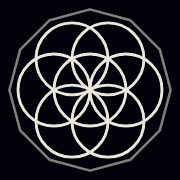
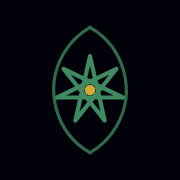
publish cosmo weather bb48fe33f5d1c21bbca833845268bdce2a1f89e8

Changed region(s): [[0.0278, 0.0278, 0.9722, 0.9722]]

diff --git a/index.html b/index.html
@@ -4,15 +4,15 @@
 <meta charset="utf-8">
 <meta name="viewport" content="width=device-width, initial-scale=1, viewport-fit=cover">
 <meta name="theme-color" content="#02030a">
-<meta name="description" content="A cosmic clock: the sky of the present moment drawn as a geometric figure.">
+<meta name="description" content="Siderarium: macrocosmic clock visually tracking the astrological energy of the moment.">
 <meta name="mobile-web-app-capable" content="yes">
 <meta name="apple-mobile-web-app-capable" content="yes">
 <meta name="apple-mobile-web-app-status-bar-style" content="black-translucent">
-<meta name="apple-mobile-web-app-title" content="Cosmo">
+<meta name="apple-mobile-web-app-title" content="Siderarium">
 <link rel="manifest" href="manifest.webmanifest">
 <link rel="icon" href="icons/icon-192.png">
 <link rel="apple-touch-icon" href="icons/apple-touch-icon.png">
-<title>cosmo weather</title>
+<title>siderarium</title>
 <link rel="preconnect" href="https://fonts.googleapis.com">
 <link rel="preconnect" href="https://fonts.gstatic.com" crossorigin>
 <link href="https://fonts.googleapis.com/css2?family=Geist:wght@400;500&family=Geist+Mono:wght@400&display=swap" rel="stylesheet">
@@ -20,7 +20,7 @@
 </head>
 <body>
   <header class="bar top">
-    <span class="mark">cosmo weather</span>
+    <span class="brand"><span class="mark">siderarium</span><span class="tag" data-i18n="ui.tagline">the macrocosmic clock</span></span>
     <nav class="seg" aria-label="view">
       <button data-mode="clock" data-i18n="ui.clock">clock</button>
       <button data-mode="chart" data-i18n="ui.chart">chart</button>
@@ -101,11 +101,11 @@
     </article>
   </section>
 
-  <section id="about" class="panel" hidden aria-label="about cosmo weather">
+  <section id="about" class="panel" hidden aria-label="about siderarium">
     <div class="close-row"><button id="about-close" aria-label="close" data-i18n="ui.close">close</button></div>
     <article data-about="en">
-      <h1>Cosmo Weather: a cosmic clock of the present moment</h1>
-            <p class="meta">working paper · v0.7 · october 2026</p>
+      <h1>Siderarium: a macrocosmic clock of the present moment</h1>
+            <p class="meta">macrocosmic clock visually tracking the astrological energy of the moment · working paper · v0.8 · october 2026</p>
             <p class="abstract">A clock that draws the sky of the present moment as a geometric figure. Planetary positions are computed from an ephemeris. A fixed set of rules turns them into colour, number, geometry and sound. Every mark on the dial can be traced to a rule and a source. The core is one tradition, the Renaissance; two modern layers are added and declared. Rules invented for this instrument are marked <code>[CW]</code>.</p>
 
             <h2>1 · CONCEPT</h2>
@@ -273,8 +273,8 @@
             </ol>
     </article>
     <article data-about="es" hidden>
-      <h1>Cosmo Weather: un reloj cósmico del momento presente</h1>
-            <p class="meta">documento de trabajo · v0.7 · octubre 2026</p>
+      <h1>Siderarium: un reloj macrocósmico del momento presente</h1>
+            <p class="meta">reloj macrocósmico que sigue visualmente la energía astrológica del momento · documento de trabajo · v0.8 · octubre 2026</p>
             <p class="abstract">Un reloj que dibuja el cielo del momento presente como una figura geométrica. Las posiciones planetarias se calculan con una efemérides. Un conjunto fijo de reglas las convierte en color, número, geometría y sonido. Cada marca de la esfera se puede rastrear hasta una regla y una fuente. El núcleo es una sola tradición, la del Renacimiento; se añaden dos capas modernas, declaradas. Las reglas inventadas para este instrumento se marcan <code>[CW]</code>.</p>
 
             <h2>1 · CONCEPTO</h2>

diff --git a/js/i18n.js b/js/i18n.js
@@ -1,4 +1,4 @@
-/*  cosmo weather — language
+/*  siderarium — language
     English and Spanish. Lowercase throughout, as the frame is. Names of angels, mansions, chords and
     the wordmark stay as they are. The Book T titles are translated plainly; the originals are in the about page.
 */
@@ -37,7 +37,7 @@
       },
       ui: {
         clock: 'clock', chart: 'chart', natal: 'natal', synastry: 'transits', sigil: 'sigil', listen: 'listen', listening: 'listening', readout: 'readout', screen: 'screen', about: 'about',
-        menu: 'menu', view: 'view', settings: 'settings', houses: 'houses', housesOpt: { regiomontanus: 'regiomontanus', equal: 'equal', placidus: 'placidus' },
+        tagline: 'the macrocosmic clock', menu: 'menu', view: 'view', settings: 'settings', houses: 'houses', housesOpt: { regiomontanus: 'regiomontanus', equal: 'equal', placidus: 'placidus' },
         field: 'field', fieldOpt: { engraved: 'engraved', glow: 'glow' }, bodiesLabel: 'planets', bodiesOpt: { metal: 'bodies', lights: 'lights' }, language: 'language',
         nativity: 'nativity', noneSet: 'none set', edit: 'edit', seenFrom: 'seen from', birthplace: 'birthplace', currentPlace: 'current place',
         charts: 'saved charts', saveAs: 'save as', rename: 'rename', del: 'delete', confirm: 'confirm', load: 'load', name: 'name', namePrompt: 'a name for this chart', ok: 'ok', noCharts: 'no saved charts yet',
@@ -88,7 +88,7 @@
       },
       ui: {
         clock: 'reloj', chart: 'carta', natal: 'natal', synastry: 'tránsitos', sigil: 'sigilo', listen: 'escuchar', listening: 'escuchando', readout: 'lectura', screen: 'pantalla', about: 'acerca',
-        menu: 'menú', view: 'vista', settings: 'ajustes', houses: 'casas', housesOpt: { regiomontanus: 'regiomontanus', equal: 'iguales', placidus: 'placidus' },
+        tagline: 'el reloj macrocósmico', menu: 'menú', view: 'vista', settings: 'ajustes', houses: 'casas', housesOpt: { regiomontanus: 'regiomontanus', equal: 'iguales', placidus: 'placidus' },
         field: 'campo', fieldOpt: { engraved: 'grabado', glow: 'luz' }, bodiesLabel: 'planetas', bodiesOpt: { metal: 'cuerpos', lights: 'luces' }, language: 'idioma',
         nativity: 'natividad', noneSet: 'sin definir', edit: 'editar', seenFrom: 'vista desde', birthplace: 'lugar de nacimiento', currentPlace: 'lugar actual',
         charts: 'cartas guardadas', saveAs: 'guardar como', rename: 'renombrar', del: 'borrar', confirm: 'confirmar', load: 'cargar', name: 'nombre', namePrompt: 'un nombre para esta carta', ok: 'ok', noCharts: 'aún no hay cartas guardadas',

diff --git a/js/app.js b/js/app.js
@@ -1,4 +1,4 @@
-/*  cosmo weather — app shell
+/*  siderarium — app shell
     Live clock, time scrubber, places, modes, export.
 */
 (function (CW) {
@@ -291,7 +291,7 @@
     const st = viewState(), cv = document.createElement('canvas');
     cv.width = cv.height = px;
     CW.render.render(cv.getContext('2d'), st, px, (performance.now() - t0) / 1000, { mode: S.mode === 'chart' || S.mode === 'natalchart' ? 'chart' : 'clock', fieldRes: px >= 3000 ? 420 : 300, field: S.field, sigil: S.sigil, engrave: S.engrave, luminous: S.luminous });
-    download(cv, `cosmo-weather_${st.loc.name}_${stampOf(st)}_${px}.png`);
+    download(cv, `siderarium_${st.loc.name}_${stampOf(st)}_${px}.png`);
   }
   /* a wallpaper at this screen's size: the square render set in a portrait field of the same ground */
   function exportWallpaper() {
@@ -300,7 +300,7 @@
     const cv = document.createElement('canvas');
     cv.width = W; cv.height = H;
     CW.render.renderWallpaper(cv.getContext('2d'), st, W, H, 3, { fieldRes: 300, field: S.field, sigil: S.sigil, engrave: S.engrave, luminous: S.luminous });
-    download(cv, `cosmo-weather_wallpaper_${st.loc.name}_${stampOf(st)}.png`);
+    download(cv, `siderarium_wallpaper_${st.loc.name}_${stampOf(st)}.png`);
   }
 
   const ordinalWord = n => n + (n % 100 >= 11 && n % 100 <= 13 ? 'th' : ['th', 'st', 'nd', 'rd'][n % 10] || 'th');

diff --git a/css/style.css b/css/style.css
@@ -1,4 +1,4 @@
-/* cosmo weather — the frame is austere. all colour belongs to the sky. */
+/* siderarium — the frame is austere. all colour belongs to the sky. */
 :root {
   --void: #02030a;
   --ink: #ebe7dc;
@@ -29,6 +29,8 @@ body {
 .top { grid-area: top; border-bottom: 1px solid var(--ink-3); }
 .bottom { grid-area: bottom; border-top: 1px solid var(--ink-3); }
 .mark { font: 500 14px/1 var(--mark); letter-spacing: 0.26em; white-space: nowrap; }
+.brand { display: flex; flex-direction: column; gap: 5px; }
+.brand .tag { font: 400 11px/1 var(--sans); letter-spacing: 0.04em; color: var(--ink-3); white-space: nowrap; }
 .group { display: flex; flex-wrap: wrap; gap: 2px; align-items: center; }
 .bar button { min-height: 36px; padding: 0 11px; border-radius: 2px; }
 .bar button.on { background: rgba(235, 231, 220, 0.08); }
@@ -157,6 +159,7 @@ body.bare #stage { grid-row: 1 / 4; grid-column: 1 / 3; }
   body.reading #readout { width: 100%; border-left: 0; border-top: 1px solid var(--ink-3); }
   .bar { padding: 10px 16px; }
   .top { gap: 10px; }
+  .brand .tag { display: none; }
   .top .seg { order: 3; width: 100%; display: flex; }
   .top .seg button { flex: 1; padding: 0; }
   .bottom { gap: 6px; }

diff --git a/sw.js b/sw.js
@@ -1,5 +1,5 @@
-/* cosmo weather — service worker. network first, cache fallback: the clock works offline after one visit. */
-const VERSION = 'cw-2026-10-16b';
+/* siderarium — service worker. network first, cache fallback: the clock works offline after one visit. */
+const VERSION = 'sd-2026-10-16c';
 const SHELL = ['./', './index.html', './css/style.css', './js/vendor/astronomy.browser.min.js', './js/color.js', './js/correspondences.js', './js/i18n.js',
   './js/engine.js', './js/glyphs.js', './js/render.js', './js/app.js', './manifest.webmanifest', './icons/icon-192.png', './icons/icon-512.png'];
 self.addEventListener('install', e => { e.waitUntil(caches.open(VERSION).then(c => c.addAll(SHELL)).then(() => self.skipWaiting())); });

diff --git a/js/render.js b/js/render.js
@@ -1,4 +1,4 @@
-/*  cosmo weather — renderer
+/*  siderarium — renderer
     Austere frame, maximal content. Everything outside the dial is grid and type;
     everything inside the circle is computed light.
 
@@ -1197,7 +1197,7 @@
     ctx.textAlign = 'right';
     ctx.fillStyle = K.rgba(INK, 0.95); ctx.font = `500 ${Math.round(26 * k)}px ${SANS}`;
     if ('letterSpacing' in ctx) ctx.letterSpacing = `${(5 * k).toFixed(1)}px`;
-    ctx.fillText('cosmo weather', Lt.S - m, row(0));
+    ctx.fillText('siderarium', Lt.S - m, row(0));
     if ('letterSpacing' in ctx) ctx.letterSpacing = '0px';
     ctx.fillStyle = K.rgba(INK, 0.55); ctx.font = `400 ${Math.round(19 * k)}px ${MONO}`;
     put(c.fig, Lt.S - m, row(1));

diff --git a/js/correspondences.js b/js/correspondences.js
@@ -1,4 +1,4 @@
-/*  cosmo weather — correspondences
+/*  siderarium — correspondences
     Renaissance core, two declared modern windows.
       core     astrology     Lilly (1647): dignities, terms (Egyptian), faces (Chaldean), solar phase
                kabbalah      Agrippa III (1533): the seven planets on the seven lower Sephiroth, Kircher's Tree (1652)

diff --git a/js/color.js b/js/color.js
@@ -1,4 +1,4 @@
-/*  cosmo weather — colour
+/*  siderarium — colour
     OKLab is the working space for every mix. Two mixing laws:
       light   (soft aspects)  additive, interpolated in OKLab, lifted
       pigment (hard aspects)  multiplicative in linear RGB, muddied

diff --git a/js/glyphs.js b/js/glyphs.js
@@ -1,4 +1,4 @@
-/*  cosmo weather — glyphs
+/*  siderarium — glyphs
     Every symbol is built from circle, line and arc on a unit grid [-1, 1],
     one stroke weight, round caps. No font glyphs: they drift between platforms.
 */

diff --git a/js/engine.js b/js/engine.js
@@ -1,4 +1,4 @@
-/*  cosmo weather — engine
+/*  siderarium — engine
     sky → state. Pure computation, no drawing. This file is the part that
     survives every port (desktop, android, wallpaper, the daily export).
 */

diff --git a/DESIGN.md b/DESIGN.md
@@ -250,3 +250,8 @@ Angels of the days and hours from the Heptameron: michael, gabriel, samael, raph
 - **Retrogrades.** Pluto retrograde: the occultation's limb and corona lose focus. Mercury slow or retrograde: the caption prints with a ghost offset, like a misregistered plate, and the readout gets a faint second impression. Mars retrograde dulls the points, Venus the curves, as before.
 - **Void Moon and the guardians.** The light at the pole goes out and the portal darkens; the guardians' star stays nearly full. The Moon's course decides whether a work takes in the world; the day and hour rulers decide who holds the room. The readout says so.
 - **Floors (round 10b).** The Moon's light still sets the weight and intensity of every mark, but never below 70% of the full Moon's; at full Moon (illumination above 90%) a further luminosity is added. The portal never draws below 0.85 of its base radius, whatever Saturn and a quiet sky take from it. A dark, Saturn-bound, void hour reads as quiet, not as a fault.
+
+## 17 · Name and glyph
+
+- **Siderarium**, "the room of the stars", on the pattern of planetarium. The descriptor: *macrocosmic clock visually tracking the astrological energy of the moment*. The three modes are the Hermetic pair: clock is the macrocosm, natal the microcosm, transits one laid on the other. The folder and the Instagram feed keep "cosmo weather" for now.
+- **Glyph.** The Seed of Life is gone. The icon is a vesica piscis (the door, the lens, Euclid I.1) holding the heptagram {7/3}: the seven planets in Chaldean order joined every third point give the days of the week, so the star is the clock of the week drawn from the planetary order. Forest green lines on the void, a gold point at the centre for the light of the moment.

diff --git a/README.md b/README.md
@@ -1,4 +1,6 @@
-# cosmo weather — prototype
+# siderarium
+
+Macrocosmic clock visually tracking the astrological energy of the moment. Formerly cosmo weather; the folder keeps the old name.
 
 The sky of the moment as an instrument. Open `index.html` in a browser: no build step, no server, works offline except for the fonts.
 
